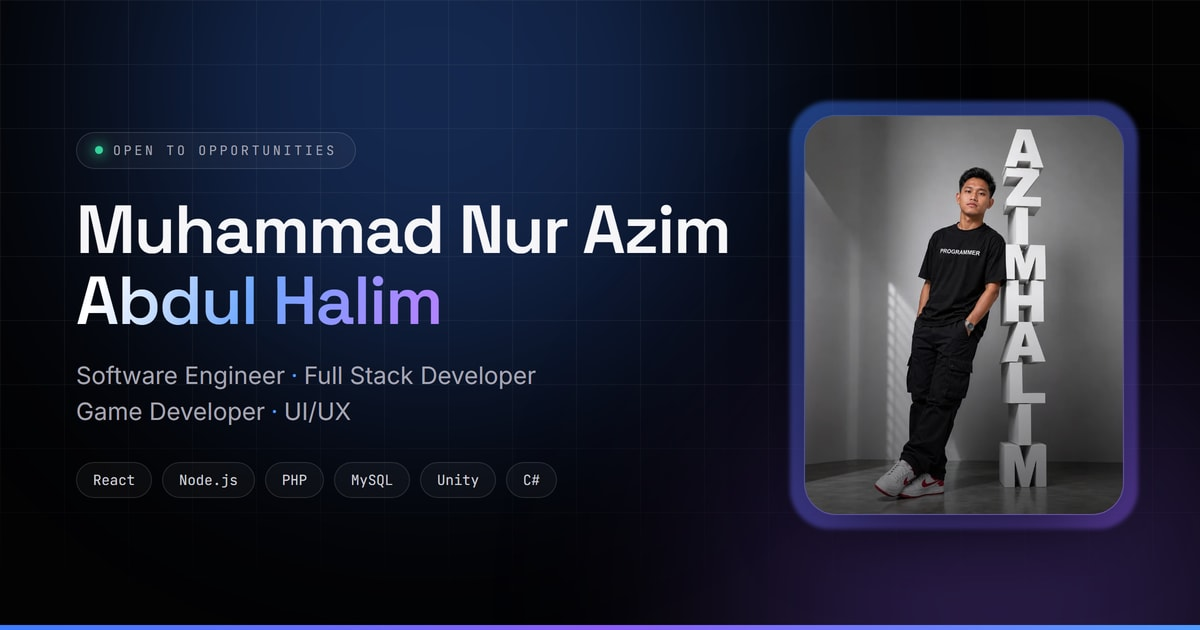
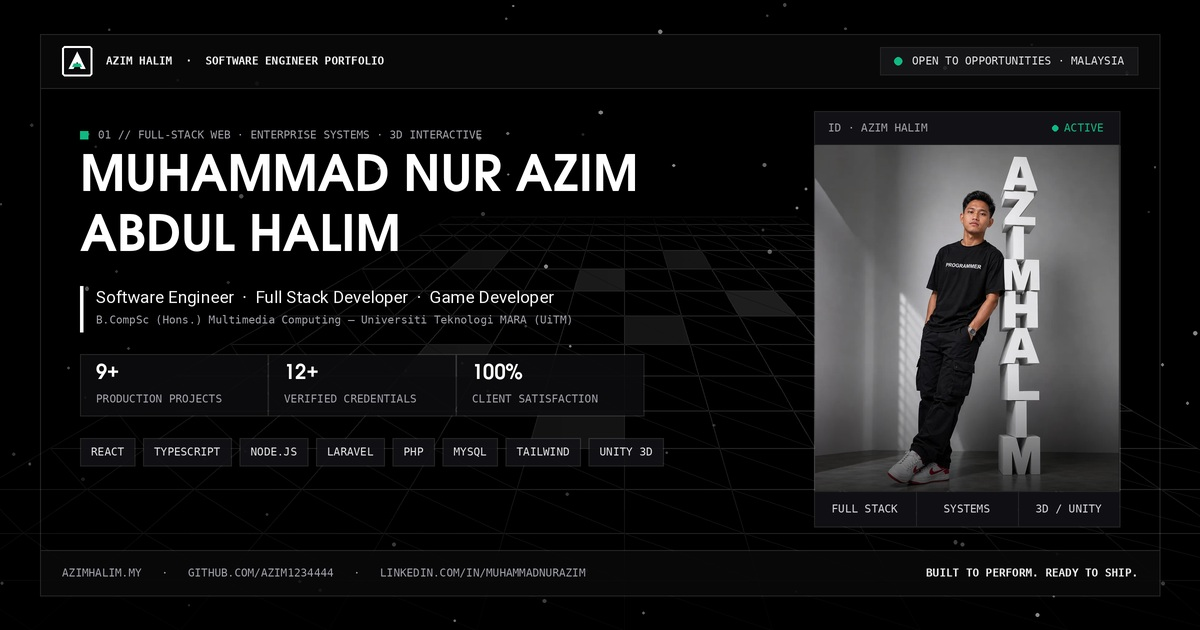
Update Open Graph social preview card (og-image.jpg) with monochrome architectural design

diff --git a/index.html b/index.html
@@ -29,7 +29,7 @@
     <meta property="og:url" content="https://muhammadnurazim.vercel.app/" />
     <meta property="og:title" content="Muhammad Nur Azim — Software Engineer & Full Stack Developer" />
     <meta property="og:description" content="Portfolio of Muhammad Nur Azim Abdul Halim — web systems, safety-critical workflows and 3D game development." />
-    <meta property="og:image" content="https://muhammadnurazim.vercel.app/og-image.jpg" />
+    <meta property="og:image" content="https://muhammadnurazim.vercel.app/og-image.jpg?v=2" />
     <meta property="og:image:width" content="1200" />
     <meta property="og:image:height" content="630" />
     <meta property="og:image:alt" content="Muhammad Nur Azim Abdul Halim — Software Engineer, Full Stack Developer, Game Developer" />
@@ -38,7 +38,7 @@
     <meta name="twitter:card" content="summary_large_image" />
     <meta name="twitter:title" content="Muhammad Nur Azim — Software Engineer & Full Stack Developer" />
     <meta name="twitter:description" content="Portfolio of Muhammad Nur Azim Abdul Halim — web systems, safety-critical workflows and 3D game development." />
-    <meta name="twitter:image" content="https://muhammadnurazim.vercel.app/og-image.jpg" />
+    <meta name="twitter:image" content="https://muhammadnurazim.vercel.app/og-image.jpg?v=2" />
 
     <link rel="preconnect" href="https://fonts.googleapis.com" />
     <link rel="preconnect" href="https://fonts.gstatic.com" crossorigin />
